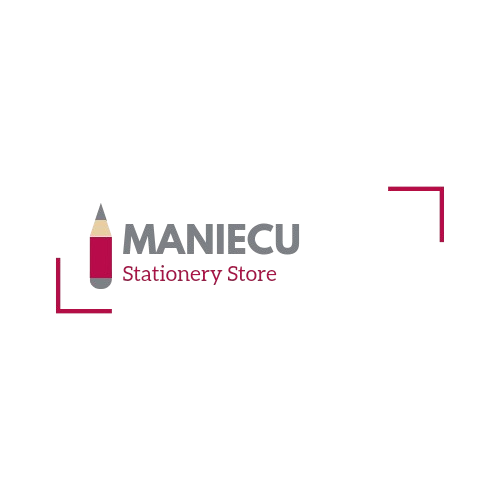
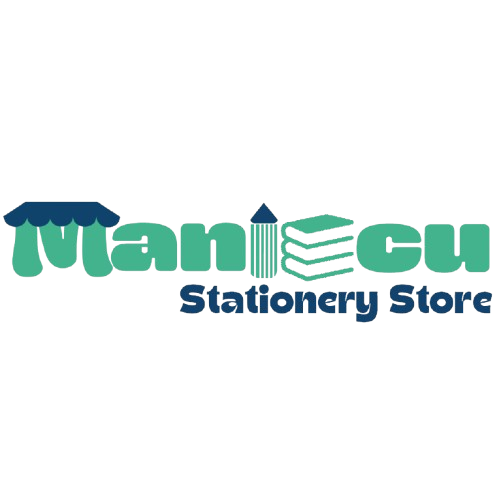
index page fixes

Changed region(s): [[0.0, 0.36, 0.992, 0.66]]

diff --git a/index.html b/index.html
@@ -284,6 +284,8 @@
           <div class="client-logo"><img src="assets/img/clients/client-88.png" alt="Client 8"></div>
           <div class="client-logo"><img src="assets/img/clients/client-99.png" alt="Client 9"></div>
           <div class="client-logo"><img src="assets/img/clients/client-10.png" alt="Client 10"></div>
+          <div class="client-logo"><img src="assets/img/clients/client-12.png" alt="Client 11"></div>
+          <div class="client-logo"><img src="assets/img/clients/client-13.png" alt="Client 12"></div>
 
           <!-- Track 2: Duplicate Logos (Creates the seamless loop) -->
           <div class="client-logo"><img src="assets/img/clients/client-11.png" alt="Client 1"></div>
@@ -296,7 +298,8 @@
           <div class="client-logo"><img src="assets/img/clients/client-88.png" alt="Client 8"></div>
           <div class="client-logo"><img src="assets/img/clients/client-99.png" alt="Client 9"></div>
           <div class="client-logo"><img src="assets/img/clients/client-10.png" alt="Client 10"></div>
-
+          <div class="client-logo"><img src="assets/img/clients/client-12.png" alt="Client 11"></div>
+          <div class="client-logo"><img src="assets/img/clients/client-13.png" alt="Client 12"></div>
         </div>
       </div>
 

diff --git a/assets/css/main.css b/assets/css/main.css
@@ -1671,8 +1671,8 @@ section,
 .clients .client-logo img {
   max-width: 100%;
   height: auto;
-  max-height: 45px; /* Keeps them looking uniform and not overly huge */
-  /* filter: grayscale(100%); Optional: Gives a modern aesthetic */
+  max-height: 65px;
+  /* filter: grayscale(100%); */
   opacity: 0.6;
   transition: all 0.3s ease;
 }